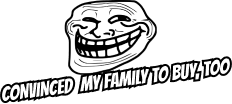
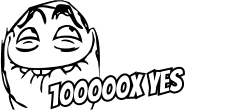
improved memes and timings on pump and dump game

diff --git a/src/components/PumpDumpAnimation/config.js b/src/components/PumpDumpAnimation/config.js
@@ -32,6 +32,20 @@ export const ASSET_LIST = {
     MEME_6: constructPath('meme-6.png'),
     MEME_7: constructPath('meme-7.png'),
     MEME_8: constructPath('meme-8.png'),
+    MEME_9: constructPath('meme-9.png'),
+    MEME_10: constructPath('meme-10.png'),
+    MEME_11: constructPath('meme-11.png'),
+    MEME_12: constructPath('meme-12.png'),
+    MEME_13: constructPath('meme-13.png'),
+    MEME_14: constructPath('meme-14.png'),
+    MEME_15: constructPath('meme-15.png'),
+    MEME_16: constructPath('meme-16.png'),
+    MEME_17: constructPath('meme-17.png'),
+    MEME_18: constructPath('meme-18.png'),
+    MEME_19: constructPath('meme-19.png'),
+    MEME_20: constructPath('meme-20.png'),
+    MEME_21: constructPath('meme-21.png'),
+    MEME_22: constructPath('meme-22.png'),
 }
 
 export const AUDIO_LIST = {

diff --git a/src/components/PumpDumpAnimation/game/game-objects/MemeContainer.js b/src/components/PumpDumpAnimation/game/game-objects/MemeContainer.js
@@ -19,7 +19,7 @@ export class MemeContainer extends Container {
         this.currentMemeIndex = 0;
         const resources = PumpDumpGameMananger.app.loader.resources;
 
-        for (let i = 0; i <= 9; ++i) {
+        for (let i = 0; i <= 21; ++i) {
             this.memes[i] = new Sprite(resources[ASSET_LIST[`MEME_${i + 1}`]].texture);
             this.memes[i].visible = false;
             this.memes[i].alpha = 0;

diff --git a/src/components/PumpDumpAnimation/game/game-objects/CrashBar.js b/src/components/PumpDumpAnimation/game/game-objects/CrashBar.js
@@ -67,7 +67,7 @@ export class CrashBar extends Container {
     startStretch(offsetY) {
         const offset = { y: BAR_MIN_HEIGHT };
         new TWEEN.Tween(offset)
-            .to({ y: offsetY }, 800)
+            .to({ y: offsetY }, 1500)
             .onUpdate(() => {
                 this.stretchGraphic(offset.y);
             })

diff --git a/src/components/PumpDumpAnimation/game/scenes/GameScene.js b/src/components/PumpDumpAnimation/game/scenes/GameScene.js
@@ -20,7 +20,7 @@ export class GameScene extends Container {
     endGameContainer = null;
 
     gameStartTime = 0;
-    memeThreshold = 10000;
+    memeThreshold = 5000;
 
     cashedOutUserIds = [];
 
